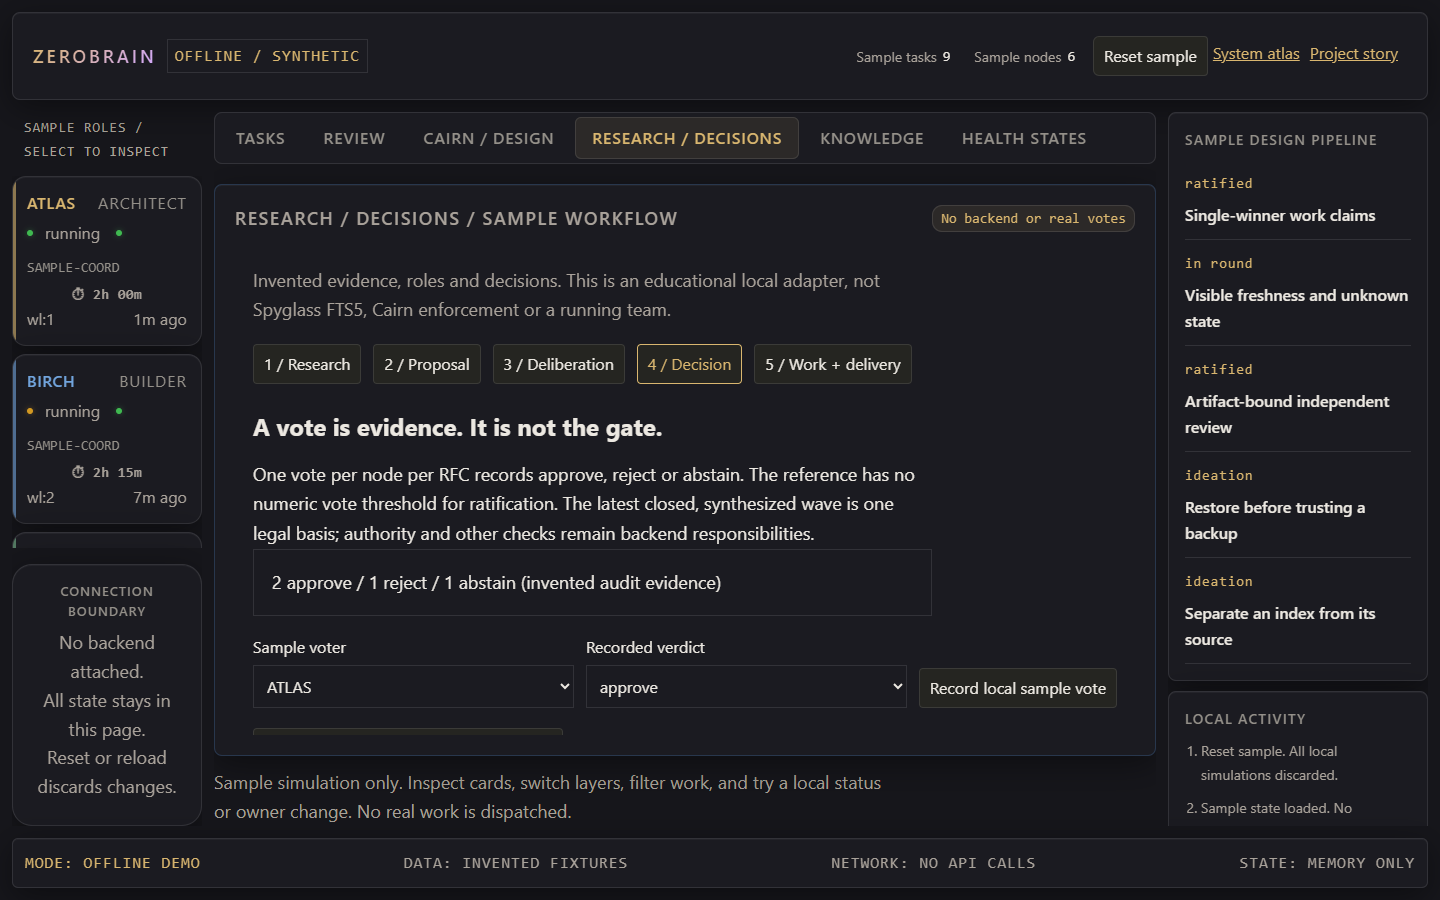
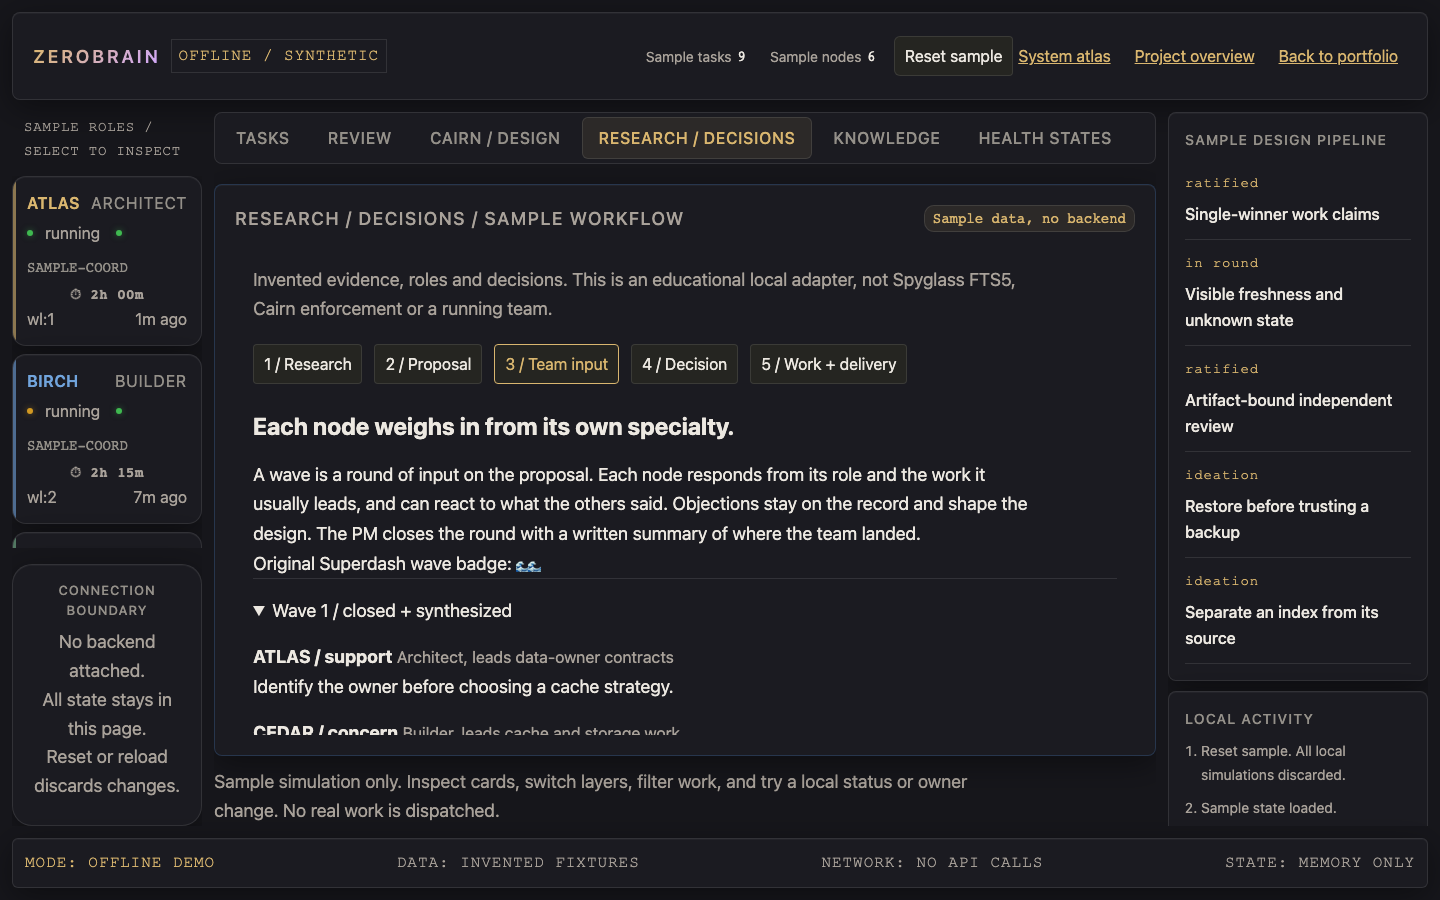
Documentation and presentation flow adjustments

diff --git a/site/index.html b/site/index.html
@@ -106,7 +106,7 @@
                   <p>Try the workflow and explore the technical architecture and source references in the repository.</p>
                   <dl>
                     <div><dt>Explore</dt><dd>Task, node, review, design, and knowledge views, plus the research/decisions inspector, with filters and drilldowns.</dd></div>
-                    <div><dt>Decide</dt><dd>In the documented workflow, waves are for deliberation, and delivery follows separately. Votes are recorded as audit evidence. A latest closed wave with non-empty PM synthesis supports one of five legal bases.</dd></div>
+                    <div><dt>Decide</dt><dd>On a design proposal, each node weighs in from its role and the projects it usually leads. Their input and objections shape the design. The PM's summary of each round carries the most weight, and I have the final say on when it's ready to build.</dd></div>
                     <div><dt>Separate</dt><dd>RFC council-vessel recusal and independent artifact review serve different review responsibilities.</dd></div>
                     <div><dt>Try</dt><dd>Explore status and owner changes, deadlines, and health states in the sample workflow; reset to start again.</dd></div>
                     <div><dt>Discuss</dt><dd>Work ownership, artifact-bound review, durable-context architecture, and visible failure.</dd></div>
@@ -117,9 +117,9 @@
           </div>
           <figure class="project-figure">
             <a href="https://djaykurtz.github.io/COHORT/" class="project-preview">
-              <img src="assets/cohort-governance.png" width="1440" height="900" loading="lazy" decoding="async" alt="Research and decisions inspector showing sample votes and deliberation evidence.">
+              <img src="assets/cohort-governance.png" width="1440" height="900" loading="lazy" decoding="async" alt="Research and decisions inspector showing a sample design review with input from each team role.">
             </a>
-            <figcaption>Interactive demo with sample data. Research, deliberation, and decision evidence in an illustrative workflow.</figcaption>
+            <figcaption>Interactive demo with sample data. Research, team input, and design decisions in an illustrative workflow.</figcaption>
             <p class="figure-tools"><a class="text-link" href="assets/cohort-governance.png">View full-resolution COHORT image <span aria-hidden="true">&nearr;</span></a></p>
           </figure>
           <a class="next-movement" href="#ans-choco"><span>Next project</span><strong>02 / Application patching <span aria-hidden="true">&darr;</span></strong></a>
